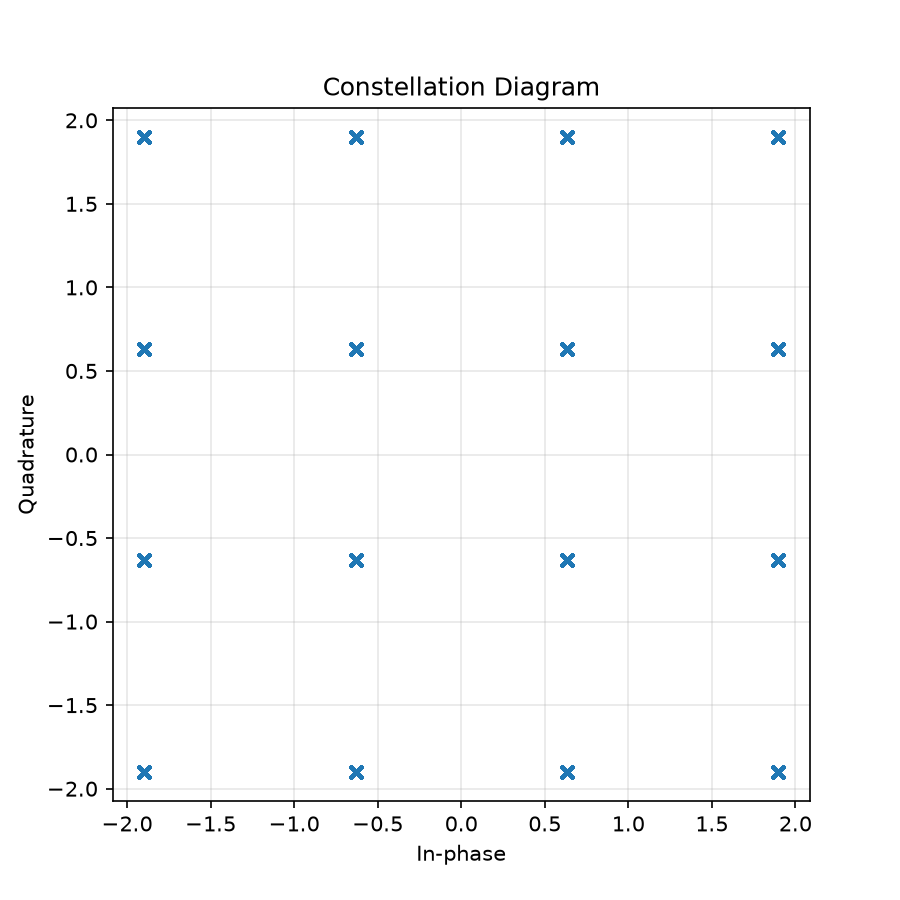
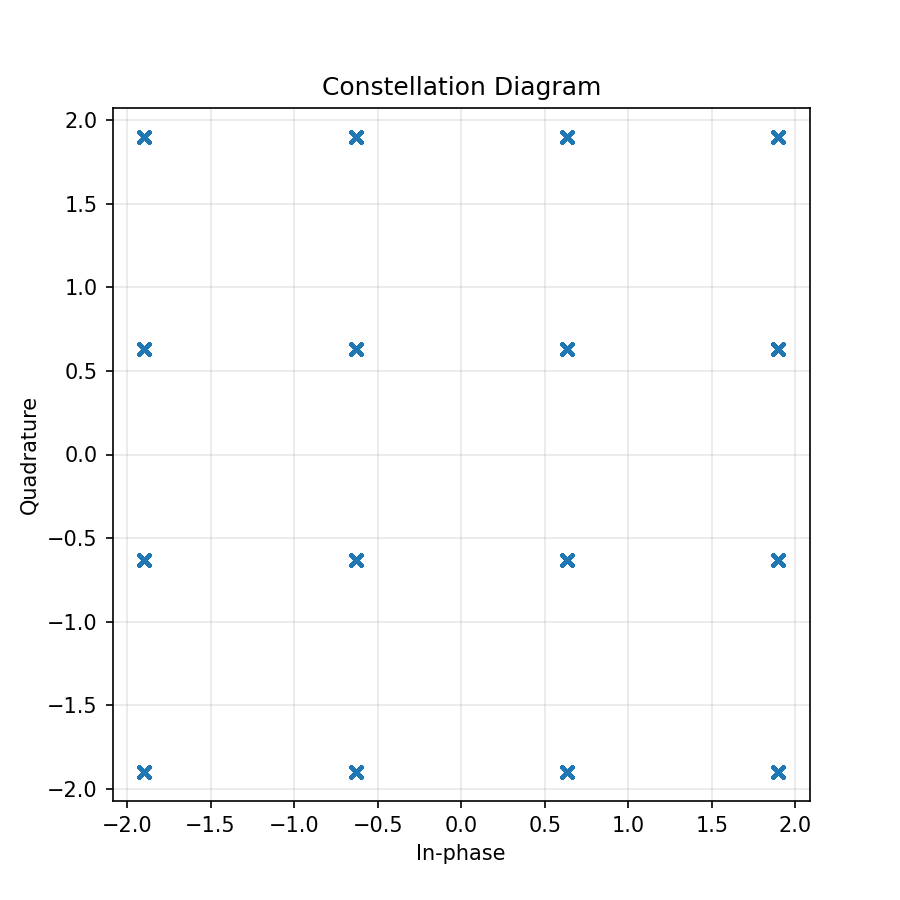
correcion de huffman, plot de bfsk

diff --git a/test.py b/test.py
@@ -1,0 +1,20 @@
+import numpy as np
+from data.config import PATH, OUTPUT_PATH, MEDIA_PATH
+from scripts.transmitter import (
+    appearence_probs, entropy, huffman_algorithm, mean_length, minimum_length, shannon_range, codificate_text, 
+    modulate_symbols, calculate_energies,codificate_channel
+)
+from scripts.receiver import decode_text, write_file, code_parameters, decodificate_channel, syndrome_table, parity, demodulate_symbols, symbol_error_probability, bit_error_probability
+from scripts.extras import plot_char_counts, print_dict, plot_constellation
+from scripts.channel import channel_effects
+
+
+probs_dict = {
+    "A": 0.4,
+    "B": 0.3,
+    "C": 0.2,
+    "D": 0.1
+}
+
+code_dict = huffman_algorithm(probs_dict)
+print_dict(code_dict, "Huffman codes:", sort=True)

diff --git a/main.py b/main.py
@@ -29,7 +29,8 @@ def codificacion_fuente(text, return_codified=False):
 
     mean_len, min_len = mean_length(code_dict, probs_dict), minimum_length(code_dict)
     print(f"Mean code length: {mean_len:.3f} bits/symbol", 
-           f"Minimum code length: {min_len:.3f} bits/symbol", sep="\n")
+           f"Minimum code length: {min_len:.3f} bits/symbol", 
+           f"Efficiency: {entropy_value / mean_len:.3f}", sep="\n")
 
     # Codification and decoding
     codified_text = codificate_text(text, code_dict)
@@ -81,7 +82,8 @@ def codificacion_canal(binary_vector):
 def modulacion(binary_vector):
 
     # Modulation
-    modulation_type, M, code_label = "QAM", 16, "Binary"
+    #modulation_type, M, code_label = "QAM", 16, "Binary"
+    modulation_type, M, code_label = "FSK", 2, "Binary"
     symbols, transmitted_idx = modulate_symbols(binary_vector, modulation_type, M, code_label)   
     print(f"\nConstellation points for {modulation_type} modulation with M={M} and {code_label} code:")
     print(symbols)
@@ -104,16 +106,15 @@ def modulacion(binary_vector):
     demodulated_binary_vector = demodulate_symbols(symbols, modulation_type, M, code_label, original_length=len(binary_vector))
     print(f"\nDemodulation successful: {np.array_equal(binary_vector, demodulated_binary_vector)}")
 
-    # Plot constellation if modulation is QAM (FSK w/ M=2 can be plotted as well, it can be implemented)
-    if modulation_type == "QAM":
-        plot_constellation(symbols, MEDIA_PATH, filename="modulate_constellation.png")
+    # Plot constellation (Transmitted)
+    plot_constellation(modulation_type, symbols, MEDIA_PATH, filename=f"{modulation_type}_modulate_constellation.png")
 
     # demodulation con ruido
     demodulated_binary_vector_noise , demodulated_idx_noise  = demodulate_symbols(received_symbols, modulation_type, M, code_label, original_length=len(binary_vector))
     print(f"\nDemodulation successful: {np.array_equal(binary_vector, demodulated_binary_vector)}") 
 
-    if modulation_type == "QAM":
-        plot_constellation(received_symbols, MEDIA_PATH, filename="received_constellation.png")
+    # Plot constellation (Received)
+    plot_constellation(modulation_type, received_symbols, MEDIA_PATH, filename=f"{modulation_type}_received_constellation.png")
 
     Pe_simbolo = symbol_error_probability(transmitted_idx, demodulated_idx_noise)
     Pb_bit = bit_error_probability(binary_vector, demodulated_binary_vector_noise)

diff --git a/scripts/extras.py b/scripts/extras.py
@@ -51,11 +51,12 @@ def print_dict(dict, title=None, sort=False) -> None:
         print(f"  {repr(key)}: {value}")
     print("-" * 30 + "\n")
 
-def plot_constellation(constellation, output_dir: str, filename: str = "constellation.png") -> None:
+def plot_constellation(modulation_type, constellation, output_dir: str, filename: str = "constellation.png") -> None:
     """
     Plots the constellation points and saves it as an image file.
 
     Parameters:
+        modulation_type: str, the type of modulation
         constellation: np.array of shape (N, 2) representing the constellation points
         output_dir: str, the directory where the image will be saved
         filename: str, the name of the image file (default: "constellation.png")
@@ -66,9 +67,13 @@ def plot_constellation(constellation, output_dir: str, filename: str = "constell
 
     ax.grid(alpha=0.3)              
     ax.scatter(constellation[:, 0], constellation[:, 1], marker="x")
-    ax.set_xlabel("In-phase")
-    ax.set_ylabel("Quadrature")
-    ax.set_title("Constellation Diagram")
+    if modulation_type == "QAM":
+        ax.set_xlabel("In-phase")
+        ax.set_ylabel("Quadrature")
+    elif modulation_type == "FSK":
+        ax.set_xlabel("$\psi_1(t) = \sqrt{2/T_b} cos(\omega_1 t)$")
+        ax.set_ylabel("$\psi_2(t) = \sqrt{2/T_b} cos(\omega_2 t)$")
+    ax.set_title(f"Constellation Diagram - {modulation_type}")
     ax.axis('equal')
 
     os.makedirs(output_dir, exist_ok=True)